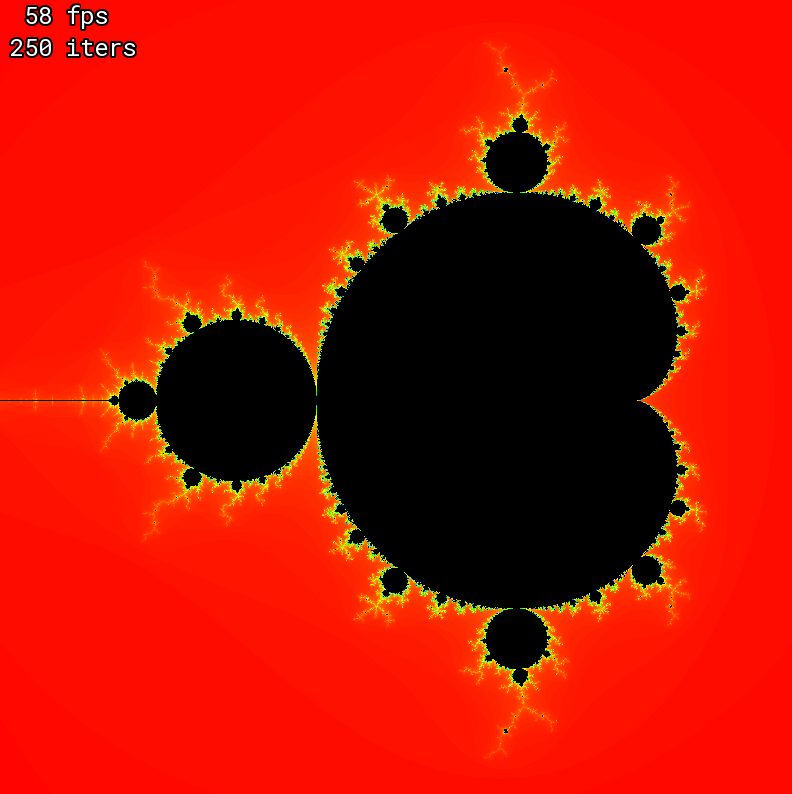
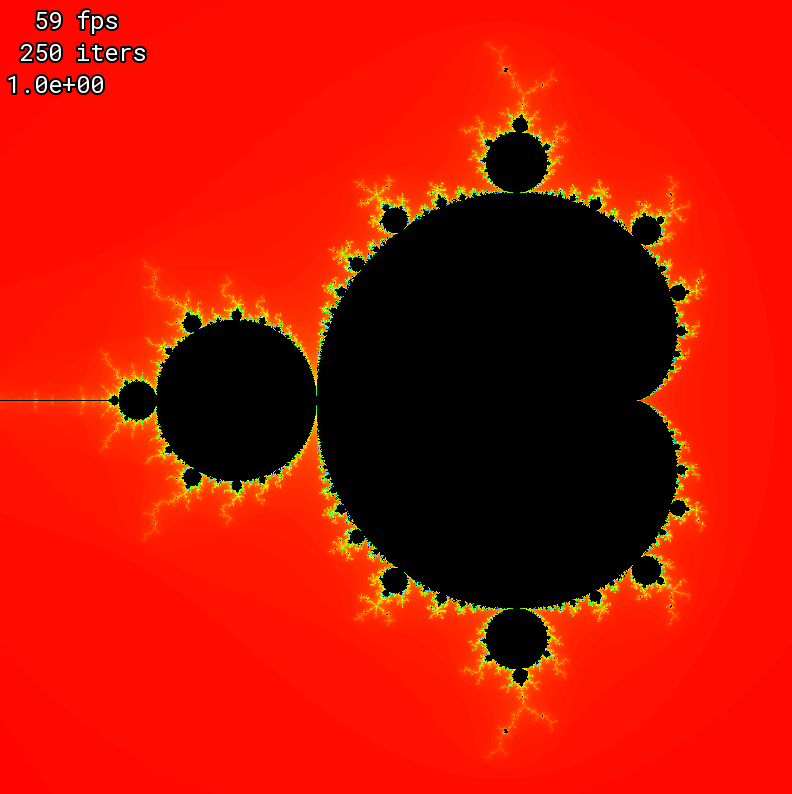
Offset text from window edges

Changed region(s): [[0.0, 0.0, 0.1818, 0.1209]]

diff --git a/src/mandelbrot.cpp b/src/mandelbrot.cpp
@@ -71,6 +71,7 @@ int main()
     text.setFillColor(sf::Color::White);
     text.setOutlineThickness(2);
     text.setOutlineColor(sf::Color::Black);
+    text.setPosition(sf::Vector2f(10.0f, 5.0f));
 
     const auto render_rows = [&pixels, &extent, &origin](const unsigned start, const unsigned end) noexcept {
         for (unsigned i = start; i < end; ++i)
@@ -166,7 +167,7 @@ int main()
         auto text_builder = std::ostringstream();
         text_builder << std::setw(4) << framerate << " fps\n";
         text_builder << std::setw(4) << g_max_iterations << " iters\n";
-        text_builder << ' ' << std::setprecision(1) << std::scientific << initial_extent / extent << '\n';
+        text_builder << std::setprecision(1) << std::scientific << initial_extent / extent << '\n';
         text.setString(text_builder.str());
     }
 }
